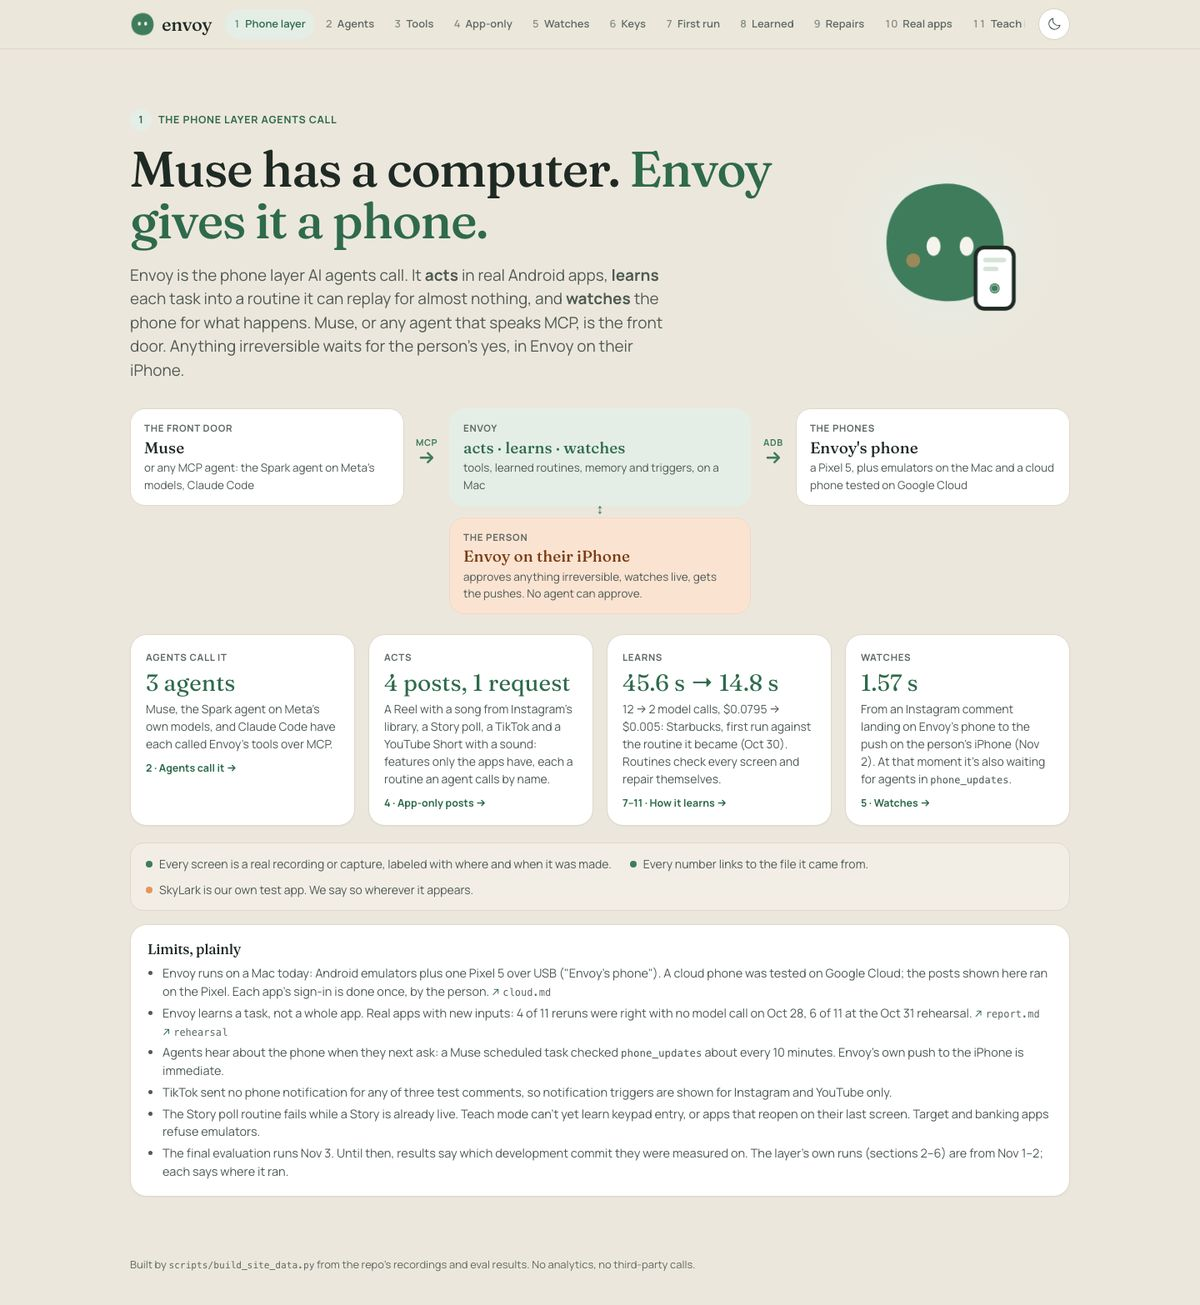
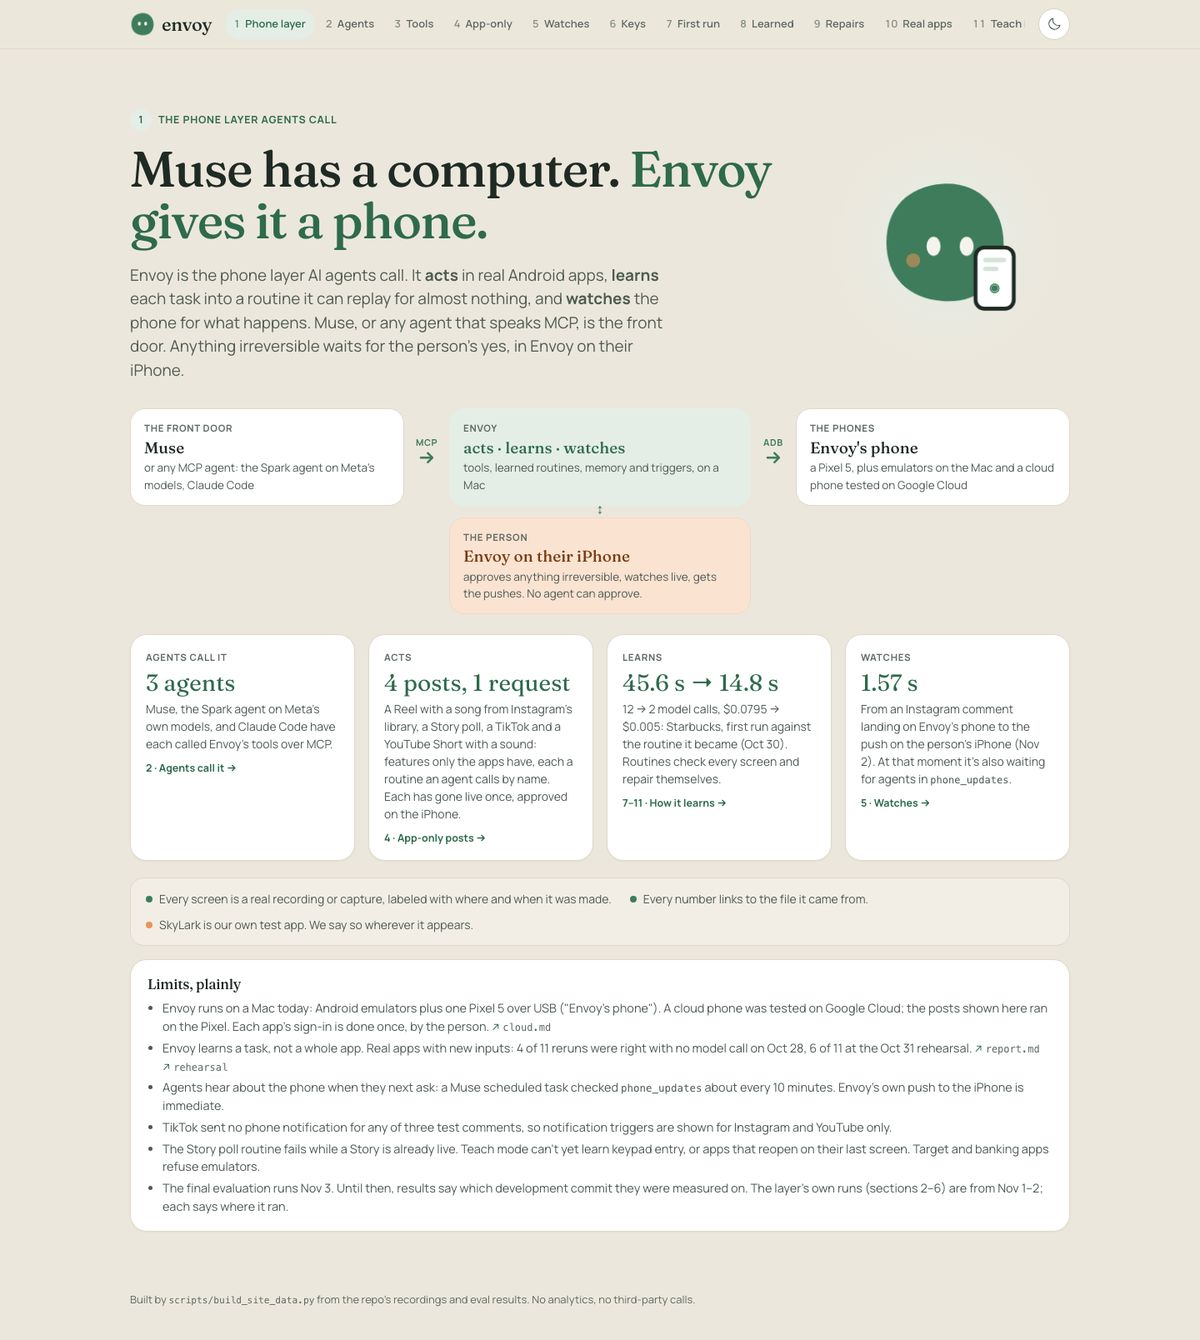
Site: Muse's Nov 2 dry run from its task rows; TikTok's re-post confirmed
Muse's card now renders its five tasks from the live API (read read-only by the coordinator,
eval/results/showcase/muse-2026-11-02/task-rows.json): the Reel, TikTok and Short declined at
their final buttons with 0, 3 and 0 model calls, and both Story failures with their notes
(#63, fixed in 947bf44; #64, open). Labeled "Dry run, Nov 2: every final post declined".
The Acts card says all four app-only features have gone live once. README and report updated.

diff --git a/site/assets/site.js b/site/assets/site.js
@@ -46,7 +46,7 @@
         <a class="card pillar" href="#agents"><span class="lbl">Agents call it</span><div class="big">3 agents</div>
           <p>Muse, the Spark agent on Meta's own models, and Claude Code have each called Envoy's tools over MCP.</p><span class="more">${num("agents")} · Agents call it →</span></a>
         <a class="card pillar" href="#app-only"><span class="lbl">Acts</span><div class="big">${posts} posts, 1 request</div>
-          <p>A Reel with a song from Instagram's library, a Story poll, a TikTok and a YouTube Short with a sound: features only the apps have, each a routine an agent calls by name.</p><span class="more">${num("app-only")} · App-only posts →</span></a>
+          <p>A Reel with a song from Instagram's library, a Story poll, a TikTok and a YouTube Short with a sound: features only the apps have, each a routine an agent calls by name. Each has gone live once, approved on the iPhone.</p><span class="more">${num("app-only")} · App-only posts →</span></a>
         <a class="card pillar" href="#learned"><span class="lbl">Learns</span><div class="big">${secs(f.seconds)} → ${secs(r.seconds)}</div>
           <p>${f.calls} → ${r.calls} model calls, ${usd(f.usd)} → ${usd(r.usd)}: Starbucks, first run against the routine it became (Oct 30). Routines check every screen and repair themselves.</p><span class="more">${num("first-run")}–${num("teach")} · How it learns →</span></a>
         <a class="card pillar" href="#watches"><span class="lbl">Watches</span><div class="big">${esc(ig ? ig["Shown on iPhone"].replace(/^\+/, "") : "")}</div>
@@ -98,7 +98,7 @@
 
   // ---- agents call it ----
   function renderAgents() {
-    const A = D.agents, X = A.crosspost, R1 = A.run1, M = A.muse, C = A.claude;
+    const A = D.agents, X = A.crosspost, R1 = A.run1, M = A.muse, MD = M.dry_run, C = A.claude;
     const ask = X.rows.find((x) => x.kind === "user");
     const done = C.tasks.filter((t) => t.status === "done");
     $("#agents-body").innerHTML = `
@@ -122,9 +122,12 @@
       </div>
       <div class="agent-row">
         <div class="card" style="padding:20px">
-          <div class="row-between"><h3>Muse, end to end</h3><span class="chip apricot">Dry run, Nov 2 · no capture in the repo yet</span></div>
-          <p style="margin:8px 0 0;color:var(--ink-2);font-size:14.5px">One request in Muse: it copied a clip from the Mac into Envoy's outbox and called <code>send_to_phone</code> (the iPhone asked first), then called the shared routine tools by name. The Reel, the TikTok and the Short each reached their final button with “golden hour” and the caption, with 0, 3 and 0 model calls, about 1 min 15 s each. Muse read each result back through <code>phone_updates</code>. Every final button was declined. Muse posts one at a time, waiting for a tap in its chat between posts.</p>
-          <p class="small" style="margin:8px 0 0">Library songs and poll stickers exist only in the apps, and Muse has no TikTok or YouTube connector, so it hands these to Envoy. Muse can post plain Instagram content itself. ${srcA(D.showcase.doc_src, "demo-showcase.md")}</p>
+          <div class="row-between"><h3>Muse, end to end</h3><span class="chip apricot">Dry run, Nov 2: every final post declined</span></div>
+          <p style="margin:8px 0 0;color:var(--ink-2);font-size:14.5px">${esc(MD.what)}</p>
+          <div class="tbl-wrap"><table class="tbl"><thead><tr><th>Routine and task</th><th>Status</th><th class="r">Calls</th><th class="r">Time</th></tr></thead>
+            <tbody>${MD.tasks.map((t) => `<tr><td><code class="small">${esc(t.routine)}</code><div class="small">${esc(t.id)}</div></td><td>${esc(t.status)}${t.status !== "declined" ? `<div class="small">${esc(t.detail)}</div>` : ""}</td><td class="r">${t.model_calls}</td><td class="r">${secs(t.seconds)}</td></tr>`).join("")}</tbody></table></div>
+          <ul class="plain" style="margin-top:8px">${MD.notes.map((n) => `<li class="small">${esc(n.replace(/^seconds runs/, "Time runs"))}</li>`).join("")}</ul>
+          <p class="small" style="margin:8px 0 0">Muse posts one at a time, waiting for a tap in its chat between posts. Library songs and poll stickers exist only in the apps, and Muse has no TikTok or YouTube connector, so it hands these to Envoy; Muse can post plain Instagram content itself. ${srcA(M.dry_run_src, "task-rows.json")} ${srcA(D.showcase.doc_src, "demo-showcase.md")}</p>
           <div class="pair shots2">
             ${shot(M.mac, "Muse for Mac moving the newest video into Envoy's outbox folder and writing its caption file", "Muse for Mac puts a clip and its caption file in Envoy's outbox (Oct 29). Cropped to Muse's window.")}
             ${shot(M.no_accept, "Muse in the iPhone app saying it can't accept Envoy's offers: there's no accept or approve tool", "Muse, asked to accept Envoy's offers: “there's no accept or approve tool” (Oct 29).", "phone-shot")}

diff --git a/site/data/site-data.js b/site/data/site-data.js
@@ -457,6 +457,91 @@ window.ENVOY = {
    "declined": "img/agents-spark-all-declined.webp"
   },
   "muse": {
+   "dry_run": {
+    "source": "sqlite3 -readonly ~/Desktop/Envoy/data/api/envoy.db (the live :8700), read Nov 2, 2026 by the coordinator; every task Muse started in the Nov 2 rehearsal",
+    "what": "A dry run of the cross-post climax from Muse for Mac (11:38-12:20 ET). Muse copied a test clip on the Mac into Envoy's outbox, called send_to_phone (an offer the user approved on the iPhone), then called the shared routine tools by name, one per turn. Each task first asked 'use Envoy's phone?' on the iPhone. The user declined every final post button, so nothing was posted.",
+    "notes": [
+     "seconds runs from Muse's call to the task's end, so it includes the phone ask and the time the final approval waited on the iPhone; each post reached its final button about 1 min 15 s after the phone OK.",
+     "task-1102-114842-f1dc: its 'use Envoy's phone?' ask went unanswered for 15 min, and the task moved to an emulator, which had no Instagram and opened the Play Store. Fixed in main 947bf44 (backlog #63): no answer now ends the task as not done.",
+     "task-1102-121512-0b47: the Story retry on the Pixel. The night-before Story was still live, so the routine's first tap opened its poll results, and the agent fallback hit its step limit (backlog #64)."
+    ],
+    "tasks": [
+     {
+      "id": "task-1102-114116-06e0",
+      "status": "declined",
+      "source": "mcp",
+      "agent": "Muse",
+      "goal": "Post a gallery video to Instagram as a reel",
+      "routine": "instagram_reel_song",
+      "created": "2026-11-02 11:41:16",
+      "updated": "2026-11-02 11:44:31",
+      "seconds": 195.5,
+      "detail": "the user declined the approval",
+      "model_calls": 0,
+      "cost_usd": 0.0
+     },
+     {
+      "id": "task-1102-114533-67b7",
+      "status": "declined",
+      "source": "mcp",
+      "agent": "Muse",
+      "goal": "Post the newest gallery video to TikTok with a chosen sound and caption",
+      "routine": "tiktok_post_sound",
+      "created": "2026-11-02 11:45:33",
+      "updated": "2026-11-02 11:46:48",
+      "seconds": 75.1,
+      "detail": "the user declined the approval",
+      "model_calls": 3,
+      "cost_usd": 0.0073
+     },
+     {
+      "id": "task-1102-114712-1c04",
+      "status": "declined",
+      "source": "mcp",
+      "agent": "Muse",
+      "goal": "Post the newest gallery video as a YouTube Short with a chosen sound and title",
+      "routine": "youtube_short_sound",
+      "created": "2026-11-02 11:47:12",
+      "updated": "2026-11-02 11:48:29",
+      "seconds": 77.4,
+      "detail": "the user declined the approval",
+      "model_calls": 0,
+      "cost_usd": 0.0
+     },
+     {
+      "id": "task-1102-114842-f1dc",
+      "status": "failed",
+      "source": "mcp",
+      "agent": "Muse",
+      "goal": "Post the newest gallery video to an Instagram story with a poll sticker",
+      "routine": "instagram_story_poll",
+      "created": "2026-11-02 11:48:42",
+      "updated": "2026-11-02 12:03:54",
+      "seconds": 911.8,
+      "detail": "Couldn't install Something went wrong: no Install button, price or Open on the page",
+      "model_calls": 0,
+      "cost_usd": 0.0
+     },
+     {
+      "id": "task-1102-121512-0b47",
+      "status": "needs_you",
+      "source": "mcp",
+      "agent": "Muse",
+      "goal": "Post the newest gallery video to an Instagram story with a poll sticker",
+      "routine": "instagram_story_poll",
+      "created": "2026-11-02 12:15:12",
+      "updated": "2026-11-02 12:19:46",
+      "seconds": 273.9,
+      "detail": "routine step open_story_creation failed (after-checks failed: no match (best 0.00 < 0.80 or ambiguous, runner-up 0.00)) and the agent could not finish (step_limit); asking the user",
+      "model_calls": 30,
+      "cost_usd": 0.4251
+     }
+    ]
+   },
+   "dry_run_src": {
+    "path": "eval/results/showcase/muse-2026-11-02/task-rows.json",
+    "note": "Muse's tasks, read read-only"
+   },
    "mac": "img/muse-mac-outbox.webp",
    "no_accept": "img/muse-no-accept-tool.webp",
    "src": {

diff --git a/site/assets/site.css b/site/assets/site.css
@@ -372,7 +372,7 @@ pre.diff .del { color: var(--brick); }
 .tbl th { text-align: left; font-size: 12px; font-weight: 700; color: var(--muted); padding: 8px 10px; border-bottom: 1px solid var(--line); white-space: nowrap; }
 .tbl td { padding: 8px 10px; border-bottom: 1px solid var(--divider); vertical-align: top; }
 .tbl tr:last-child td { border-bottom: 0; }
-.tbl .r { text-align: right; }
+.tbl .r { text-align: right; white-space: nowrap; }
 .card.tbl-wrap { padding: 4px 6px; }
 .plain { list-style: none; margin: 4px 0 0; padding: 0; display: grid; gap: 6px; }
 .stats { display: grid; grid-template-columns: repeat(3, minmax(0, 1fr)); gap: 16px; margin-top: 20px; }

diff --git a/scripts/build_site_data.py b/scripts/build_site_data.py
@@ -816,8 +816,8 @@ def spark_run(path: Path) -> dict:
 
 
 def agents() -> dict:
-    """Agents calling Envoy: the Spark agent's cross-post (four routine tools at once, on Envoy's phone), Muse's captures from
-    the Oct 29 link sitting, and Claude Code's tasks on the live API (task rows read read-only)."""
+    """Agents calling Envoy: the Spark agent's cross-post (four routine tools at once, on Envoy's phone), Muse's Nov 2 dry run
+    and its captures from the Oct 29 link sitting, and Claude Code's tasks on the live API (task rows read read-only)."""
     cc = json.loads((SPARK / "claude-code/task-rows.json").read_text())
     muse = REPO / "eval/results/muse-link"
     return {
@@ -828,7 +828,9 @@ def agents() -> dict:
         "run1_src": src(rel(SPARK / "crosspost/run1-three-posts.json")),
         "shots": {"asks": image(SPARK / "crosspost/run2-four-phone-asks.png", "agents-spark-four-asks", 1600),
                   "declined": image(SPARK / "crosspost/run2-all-declined.png", "agents-spark-all-declined", 1600)},
-        "muse": {"mac": image(muse / "e3-mac-moves-clip-and-sidecar.jpg", "muse-mac-outbox", crop=(85, 38, 740, 476)),
+        "muse": {"dry_run": json.loads((REPO / "eval/results/showcase/muse-2026-11-02/task-rows.json").read_text()),
+                 "dry_run_src": src("eval/results/showcase/muse-2026-11-02/task-rows.json", "Muse's tasks, read read-only"),
+                 "mac": image(muse / "e3-mac-moves-clip-and-sidecar.jpg", "muse-mac-outbox", crop=(85, 38, 740, 476)),
                  "no_accept": image(muse / "muse-refuses-to-accept-offers.jpg", "muse-no-accept-tool"),
                  "src": src("eval/results/muse-link", "the Oct 29 Muse sitting"), "doc": src("docs/muse-link.md")},
         "claude": {"tasks": cc["tasks"], "approvals": cc["approvals"], "src": src(rel(SPARK / "claude-code/task-rows.json")),

diff --git a/prompts/docs-refresh-site-rework-report.md b/prompts/docs-refresh-site-rework-report.md
@@ -1,7 +1,8 @@
 # Docs refresh: the showcase site rework (Nov 2)
 
-Session site-rework, branch `claude/site-rework-3da8f9` on main `947bf44`. Only `site/**`, `scripts/build_site_data.py` and
-this report (with its screenshots in `prompts/docs-refresh-site-rework-report/`) changed. Not pushed, not merged: pushing
+Session site-rework, branch `claude/site-rework-3da8f9` on main `947bf44`. Only `site/**`, `scripts/build_site_data.py`,
+this report (with its screenshots in `prompts/docs-refresh-site-rework-report/`) and, on the coordinator's word,
+`eval/results/showcase/muse-2026-11-02/task-rows.json` changed. Not pushed, not merged: pushing
 main redeploys https://sanjeevexe.github.io/envoy/, so that waits for the user's OK through the coordinator. No devices, no
 model calls, $0.
 
@@ -30,7 +31,7 @@ model calls, $0.
 **Five new sections, each built from files in the repo:**
 | # | Section | Evidence |
 | --- | --- | --- |
-| 2 | Agents call it | The Spark agent's four-post cross-post rendered from its own event log (`agents/meta-agent/evidence/2026-11-01/crosspost/run2-four-posts.json`): the request, the four routine-tool calls with arguments, the phone asks, each final button and its decline, Spark's words, 11 calls, $0.043. Two of its page captures. Muse: two Oct 29 captures (Muse for Mac filling the outbox; Muse saying there's no accept or approve tool) plus the Nov 2 end-to-end dry run **in words only**. Claude Code: its three task rows from the live API and its refusal to approve |
+| 2 | Agents call it | The Spark agent's four-post cross-post rendered from its own event log (`agents/meta-agent/evidence/2026-11-01/crosspost/run2-four-posts.json`): the request, the four routine-tool calls with arguments, the phone asks, each final button and its decline, Spark's words, 11 calls, $0.043. Two of its page captures. Muse: the Nov 2 end-to-end dry run from its five task rows (`eval/results/showcase/muse-2026-11-02/task-rows.json`, added on the coordinator's word), with both Story failures and their notes, plus two Oct 29 captures (Muse for Mac filling the outbox; Muse saying there's no accept or approve tool). Claude Code: its three task rows from the live API and its refusal to approve |
 | 3 | Learned routines become tools | `eval/results/agent-door/`: the tool list before and after one share switch, the new tool exactly as agents see it, one call to it. The Spark agent calling `skylark_check_flight_status` by name (event log and capture). A crop of Settings › Agents › Agent tools |
 | 4 | Acts, in the apps | The four showcase routines from `data/routines/` (version, steps, inputs, how made). Each one's first run and the replays of its active version, copied from `eval/results/showcase/runs/runs.md`. Its real post from `prompts/showcase-report.md`. One P3 frame of the Story poll sticker on the Pixel, labeled as driven by hand before the routine existed. A "flaws included" callout: TikTok's songless post, the live-Story failure, YouTube's search repair |
 | 5 | Watches | The six trigger kinds read from `backend/api/scheduler.py`. The Nov 2 live comment table copied from `prompts/phone-watch-report.md` (Instagram +1.57 s; YouTube's ~2 min delay; TikTok none; the code comment not notified). Muse's scheduled task polling `phone_updates` (Oct 29 capture, cropped) |
@@ -82,12 +83,17 @@ eval path, and privacy rows for every new image.
 
 ## Sections without real footage
 
-- **Muse end to end (Nov 2):** no capture or task rows are in the repo. The page states it in words, with a chip
-  "Dry run, Nov 2 · no capture in the repo yet", and no source link. I asked the coordinator whether a capture or a
-  read-only task-row dump could be committed (like `claude-code/task-rows.json`). If one lands, it can replace the words.
+- **Muse end to end (Nov 2):** resolved. The coordinator read Muse's five task rows from the live API read-only and
+  checked them for privacy. They're now in `eval/results/showcase/muse-2026-11-02/task-rows.json`, and the card renders
+  them under "Dry run, Nov 2: every final post declined":
+  - the Reel, TikTok and Short were declined at their final buttons with 0, 3 and 0 model calls;
+  - the first Story failed, an unanswered phone ask that moved to an emulator (#63, fixed in `947bf44`);
+  - the Story retry hit the live-Story bug (#64, open).
+  There's still no screen capture of Muse for this run.
 - **Muse seeing a new tool without reconnecting (P1):** in words only, labeled "no capture in the repo".
-- **Watches:** no capture of the notification on the Pixel or the push on the iPhone. The section is the timing table plus
-  the Oct 29 Muse capture. I mentioned to the coordinator that an iPhone push still (no handles) would help, if cheap.
+- **Watches:** no capture of the notification on the Pixel or the push on the iPhone. The coordinator decided against a
+  fresh one: it would need a public comment on the test account. The section is the timing table plus the Oct 29 Muse
+  capture.
 - **App-only posts:** no frame from Envoy's own runs.
   - The showcase source traces have screen trees but no screenshots.
   - The approval screenshots stayed outside the repo on purpose (TikTok's shows nearby places).
@@ -97,9 +103,8 @@ eval path, and privacy rows for every new image.
 
 ## Unsure, or worth a second look
 
-- **The TikTok re-post with the sound.** `prompts/showcase-report.md` and `docs/demo-showcase.md` say task-1102-023044-d081
-  went live with "♫ golden hour - JVKE". The fact sheet only mentions the songless first post. The page shows both, cited
-  to the report. I asked the coordinator to confirm.
+- **The TikTok re-post with the sound:** confirmed by the coordinator. task-1102-023044-d081 is done in the database, and
+  the fact sheet's line was stale. All four app-only features have gone live once, and the Acts card in section 1 says so.
 - **The YouTube Short's model calls on its real post** aren't in any committed file, so the page doesn't claim "0 calls"
   for it. It shows "live, public".
 - **Replays per routine** count only runs after the active version was compiled. Earlier rows reuse the same version
@@ -113,8 +118,7 @@ eval path, and privacy rows for every new image.
 1. **Link the live posts?** The public Reel and Short URLs are in the (uncommitted) demo plan, on test accounts. The page
    doesn't link them now.
 2. **Show the test accounts' handles?** They're removed from the page now.
-3. **A phone capture for Watches?** An iPhone push for an Instagram comment, if the coordinator can take one cleanly.
-4. **The navigation has 16 entries** and scrolls sideways on narrower screens. Shorter names or fewer stops are possible if
+3. **The navigation has 16 entries** and scrolls sideways on narrower screens. Shorter names or fewer stops are possible if
    it feels long.
 
 ## For the other docs sessions

diff --git a/site/README.md b/site/README.md
@@ -79,7 +79,7 @@ Section numbers are positions on the page (the page numbers itself).
 | 1 | Limits | `eval/results/final/report.md` suite 4, `eval/results/real_rerun_2026-10-31/README.md`, `docs/cloud.md`, `prompts/phone-watch-report.md`, `prompts/showcase-report.md` |
 | 2. Agents call it | The Spark agent's cross-post: the request, each tool call, each ask on the iPhone and how it ended, Spark's words, its calls and dollars | `agents/meta-agent/evidence/2026-11-01/crosspost/run2-four-posts.json` (the agent page's event log), its `README.md`, and `run1-three-posts.json` |
 | 2 | Muse's Oct 29 captures (the Mac outbox; no accept or approve tool) | `eval/results/muse-link/`, `docs/muse-link.md` |
-| 2 | Muse end to end, Nov 2 (a dry run) | **No file in the repo**: the coordinator's rehearsal notes. The page says so |
+| 2 | Muse end to end, Nov 2 (a dry run, every final post declined): its five tasks, their calls and times, and the notes on the two Story failures (#63 fixed in `947bf44`, #64 open) | `eval/results/showcase/muse-2026-11-02/task-rows.json` (the live API's task rows, read read-only by the coordinator) |
 | 2 | Claude Code's tasks on the live API (agent "Claude", 0 model calls) and its refusal to approve | `agents/meta-agent/evidence/2026-11-01/claude-code/task-rows.json` and `README.md` |
 | 3. Routines become tools | The tool list before and after one share switch, the tool as agents see it, one call to it | `eval/results/agent-door/tools-before.json`, `tools-after.json`, `call.json` |
 | 3 | The Spark agent calling `skylark_check_flight_status` by name | `agents/meta-agent/evidence/2026-11-01/routine-tool-run.json` and `.png` |
